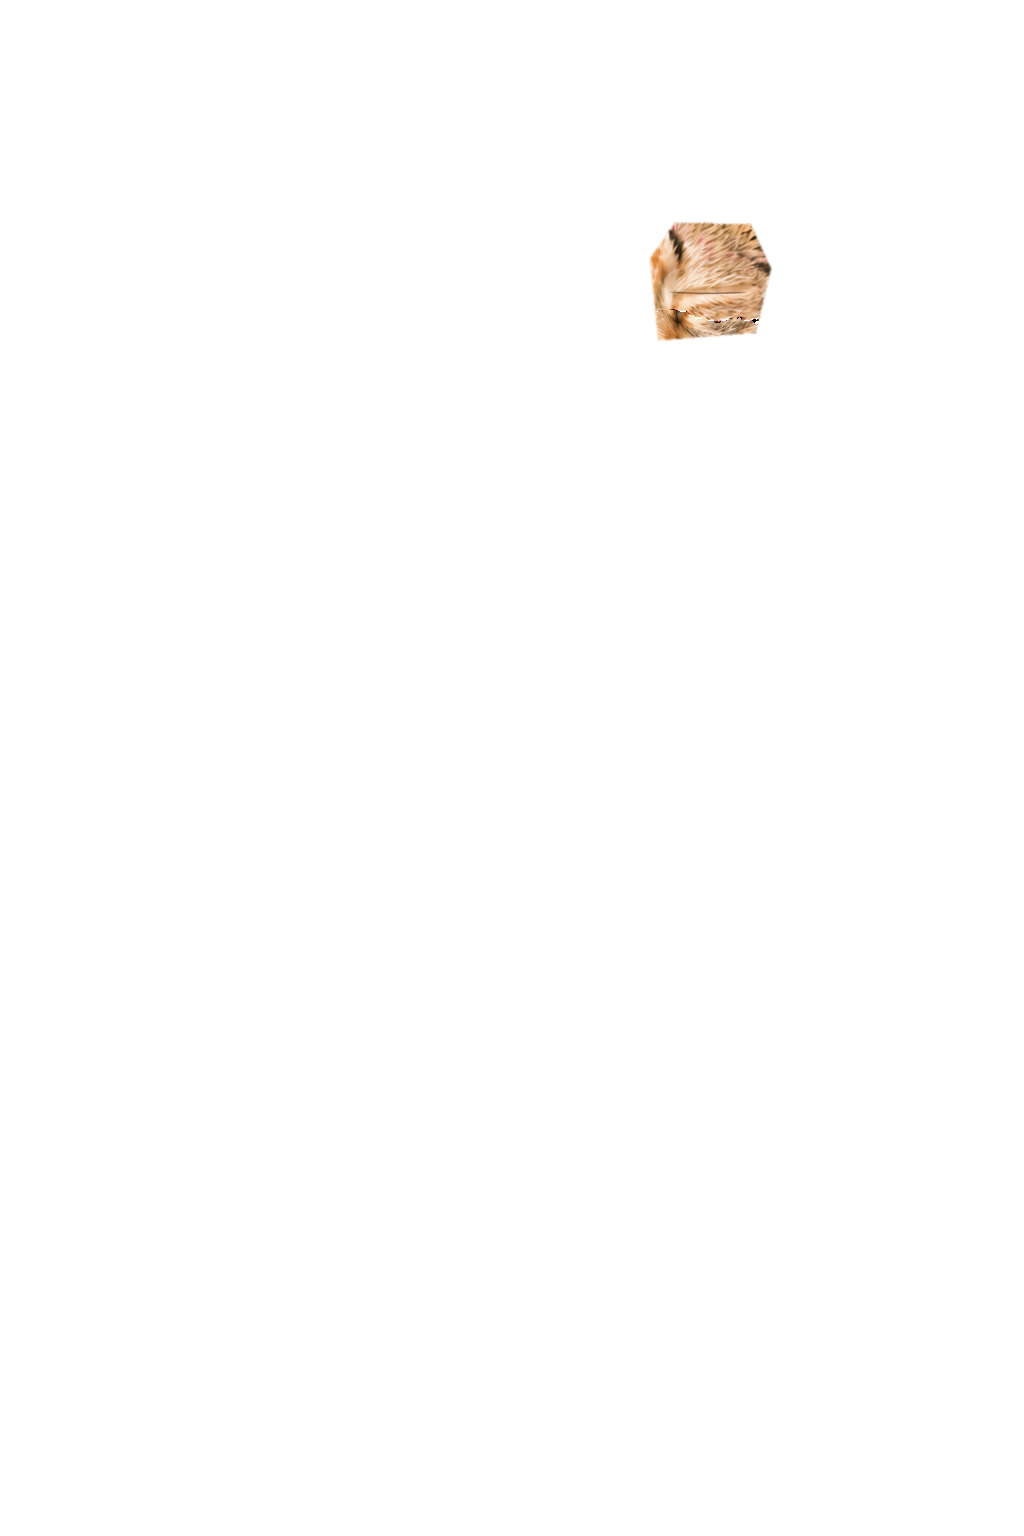
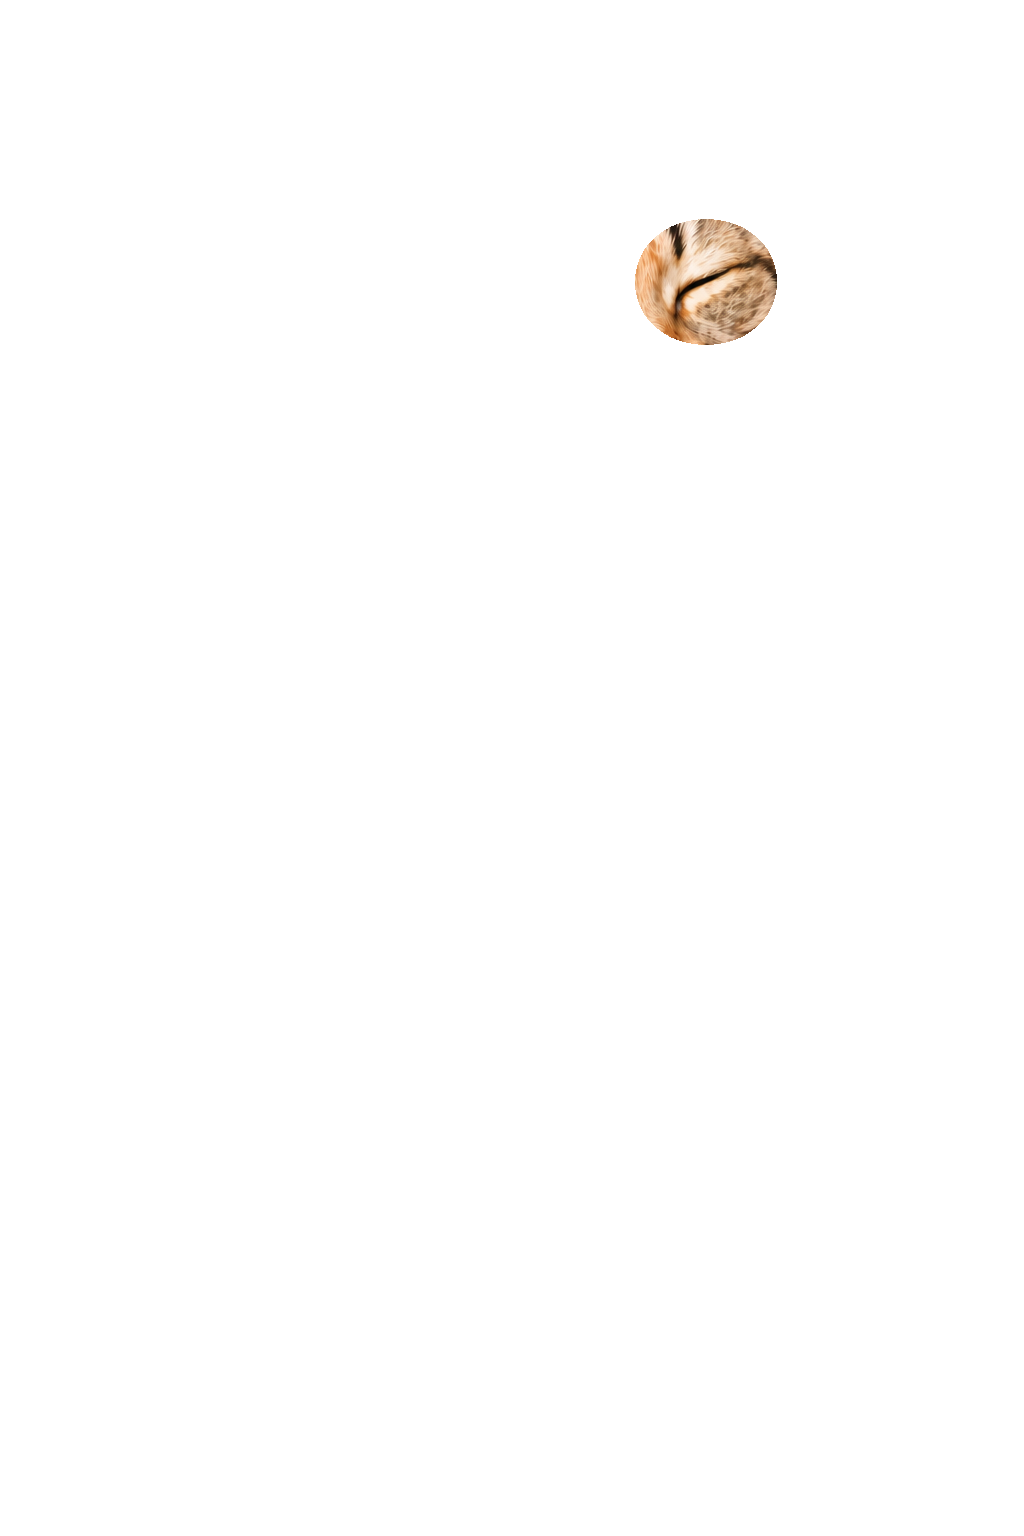
Refine cat blink and face motion

Changed region(s): [[0.625, 0.125, 0.7812, 0.25]]

diff --git a/src/styles/cat-companion.css b/src/styles/cat-companion.css
@@ -836,10 +836,6 @@
   translate: 0 -2px;
 }
 
-[data-cat-companion][data-mood="curious"] {
-  --pet-head-tilt: 3deg;
-}
-
 [data-cat-companion][data-mood="surprised"] [data-pet-part^="eye-"] {
   transform: scale(1.08);
 }
@@ -848,27 +844,8 @@
   width: 5px;
 }
 
-[data-cat-companion][data-mood="happy"] [data-pet-part^="eyelid-"],
-[data-cat-companion][data-mood="relaxed"] [data-pet-part^="eyelid-"] {
-  animation: none;
-  transform: scaleY(0.2);
-}
-
-[data-cat-companion][data-mood="relaxed"] [data-pet-part^="eyelid-"] {
-  transform: scaleY(0.42);
-}
-
 [data-cat-companion][data-mood="playful"] [data-pet-part^="pupil-"] {
   width: 11px;
-}
-
-[data-cat-companion][data-mood="annoyed"] [data-pet-part^="eyelid-"] {
-  animation: none;
-  transform: scaleY(0.48) rotate(4deg);
-}
-
-[data-cat-companion][data-mood="annoyed"] [data-pet-part="eyelid-right"] {
-  transform: scaleY(0.48) rotate(-4deg);
 }
 
 [data-cat-companion][data-state="playing"] [data-pet-part="tail"] {
@@ -913,17 +890,6 @@
 
 [data-cat-companion][data-mood="annoyed"] [data-asset-part="ear-right"] {
   transform: rotate(5deg);
-}
-
-[data-cat-companion][data-state="sleepy"] [data-pet-part^="eyelid-"],
-[data-cat-companion][data-mood="sleepy"] [data-pet-part^="eyelid-"] {
-  animation: none;
-  transform: scaleY(0.7);
-}
-
-[data-cat-companion]:is([data-mood="happy"], [data-mood="relaxed"], [data-mood="sleepy"], [data-mood="annoyed"])
-  [data-asset-part^="eyelid-half-"] {
-  opacity: 1;
 }
 
 [data-cat-companion][data-mood="surprised"] [data-asset-part^="eye-base-"] {
@@ -1572,9 +1538,9 @@
 }
 
 @keyframes cat-companion-head-idle {
-  0%, 100% { transform: translate(0, 0) rotate(-0.65deg); }
-  43% { transform: translate(0.8px, -1px) rotate(0.9deg); }
-  72% { transform: translate(-0.5px, -0.3px) rotate(0.2deg); }
+  0%, 100% { transform: translate(0, 0) rotate(-0.15deg); }
+  43% { transform: translate(0.6px, -0.8px) rotate(0.2deg); }
+  72% { transform: translate(-0.4px, -0.2px) rotate(0); }
 }
 
 @keyframes cat-companion-hop-shell {
@@ -1584,18 +1550,18 @@
 
 @keyframes cat-companion-head-pat-shell {
   0%, 100% { transform: translateY(0) rotate(0); }
-  48% { transform: translateY(4px) rotate(-2deg) scale(0.985); }
+  48% { transform: translateY(4px) rotate(-1deg) scale(0.985); }
 }
 
 @keyframes cat-companion-nose-recoil-shell {
   0%, 100% { transform: translateY(0) rotate(0); }
-  42% { transform: translateY(-6px) rotate(1deg) scale(0.97); }
+  42% { transform: translateY(-6px) rotate(0.5deg) scale(0.97); }
 }
 
 @keyframes cat-companion-head-shake-shell {
   0%, 100% { transform: translateX(0) rotate(0); }
-  24%, 62% { transform: translateX(-4px) rotate(-3deg); }
-  43%, 81% { transform: translateX(4px) rotate(3deg); }
+  24%, 62% { transform: translateX(-4px) rotate(-1.5deg); }
+  43%, 81% { transform: translateX(4px) rotate(1.5deg); }
 }
 
 @keyframes cat-companion-body-pat-follow {

diff --git a/src/scripts/cat-companion/gaze.ts b/src/scripts/cat-companion/gaze.ts
@@ -100,17 +100,17 @@ export class GazeController {
     this.#root.style.setProperty('--pet-asset-gaze-y', `${(this.#currentY * 0.7).toFixed(2)}px`);
     this.#root.style.setProperty('--pet-gaze-nx', this.#currentX.toFixed(4));
     this.#root.style.setProperty('--pet-gaze-ny', this.#currentY.toFixed(4));
-    this.#root.style.setProperty('--pet-head-turn', `${(this.#currentX * 5.25).toFixed(2)}deg`);
-    this.#root.style.setProperty('--pet-head-lift', `${(this.#currentY * 2).toFixed(2)}px`);
+    this.#root.style.setProperty('--pet-head-turn', `${(this.#currentX * 2.25).toFixed(2)}deg`);
+    this.#root.style.setProperty('--pet-head-lift', `${(this.#currentY * 1.25).toFixed(2)}px`);
     this.#root.style.setProperty(
       '--pet-body-follow-turn',
-      `${(this.#currentX * 0.79).toFixed(2)}deg`,
+      `${(this.#currentX * 0.45).toFixed(2)}deg`,
     );
     this.#root.style.setProperty(
       '--pet-body-follow-lift',
       `${(this.#currentY * 0.3).toFixed(2)}px`,
     );
-    this.#root.style.setProperty('--pet-book-turn', `${(this.#currentX * 1.5).toFixed(2)}deg`);
+    this.#root.style.setProperty('--pet-book-turn', `${(this.#currentX * 1).toFixed(2)}deg`);
     this.#root.style.setProperty(
       '--pet-book-lift',
       `${(-Math.abs(this.#currentX) * 1.5).toFixed(2)}px`,
